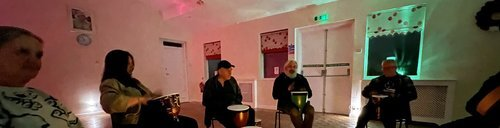
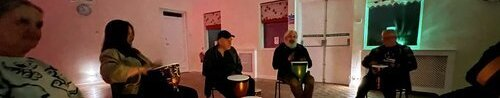
fix: crop more ceiling/wall off drum circle image

diff --git a/links.html b/links.html
@@ -411,7 +411,7 @@
           </div>
         </a>
         <a href="https://chat.whatsapp.com/LF1iSDoJyAZH9gyYAlu74c" class="link-card--wa" target="_blank" rel="noopener" aria-label="Join the Drum Circle WhatsApp group">
-          <img src="/images/drumcircle-bg.jpg?v=3" alt="Community drum circle" class="wa-img wa-img--drum">
+          <img src="/images/drumcircle-bg.jpg?v=4" alt="Community drum circle" class="wa-img wa-img--drum">
           <div class="wa-body">
             <div class="wa-icon-row">
               <svg class="wa-icon" viewBox="0 0 24 24" fill="#25D366"><path d="M17.472 14.382c-.297-.149-1.758-.867-2.03-.967-.273-.099-.471-.148-.67.15-.197.297-.767.966-.94 1.164-.173.199-.347.223-.644.075-.297-.15-1.255-.463-2.39-1.475-.883-.788-1.48-1.761-1.653-2.059-.173-.297-.018-.458.13-.606.134-.133.298-.347.446-.52.149-.174.198-.298.298-.497.099-.198.05-.371-.025-.52-.075-.149-.669-1.612-.916-2.207-.242-.579-.487-.5-.669-.51-.173-.008-.371-.01-.57-.01-.198 0-.52.074-.792.372-.272.297-1.04 1.016-1.04 2.479 0 1.462 1.065 2.875 1.213 3.074.149.198 2.096 3.2 5.077 4.487.709.306 1.262.489 1.694.625.712.227 1.36.195 1.871.118.571-.085 1.758-.719 2.006-1.413.248-.694.248-1.289.173-1.413-.074-.124-.272-.198-.57-.347m-5.421 7.403h-.004a9.87 9.87 0 01-5.031-1.378l-.361-.214-3.741.982.998-3.648-.235-.374a9.86 9.86 0 01-1.51-5.26c.001-5.45 4.436-9.884 9.888-9.884 2.64 0 5.122 1.03 6.988 2.898a9.825 9.825 0 012.893 6.994c-.003 5.45-4.437 9.884-9.885 9.884m8.413-18.297A11.815 11.815 0 0012.05 0C5.495 0 .16 5.335.157 11.892c0 2.096.547 4.142 1.588 5.945L.057 24l6.305-1.654a11.882 11.882 0 005.683 1.448h.005c6.554 0 11.89-5.335 11.893-11.893a11.821 11.821 0 00-3.48-8.413z"/></svg>
